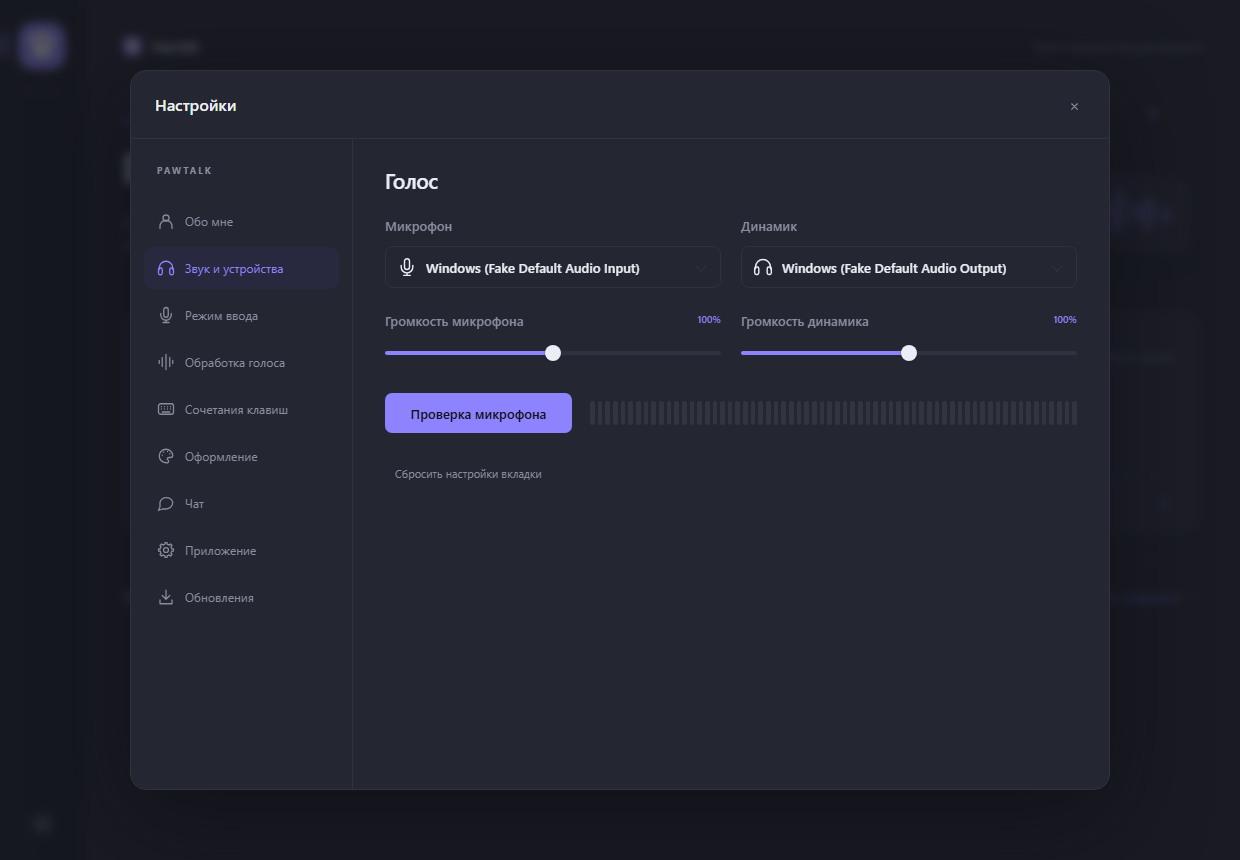
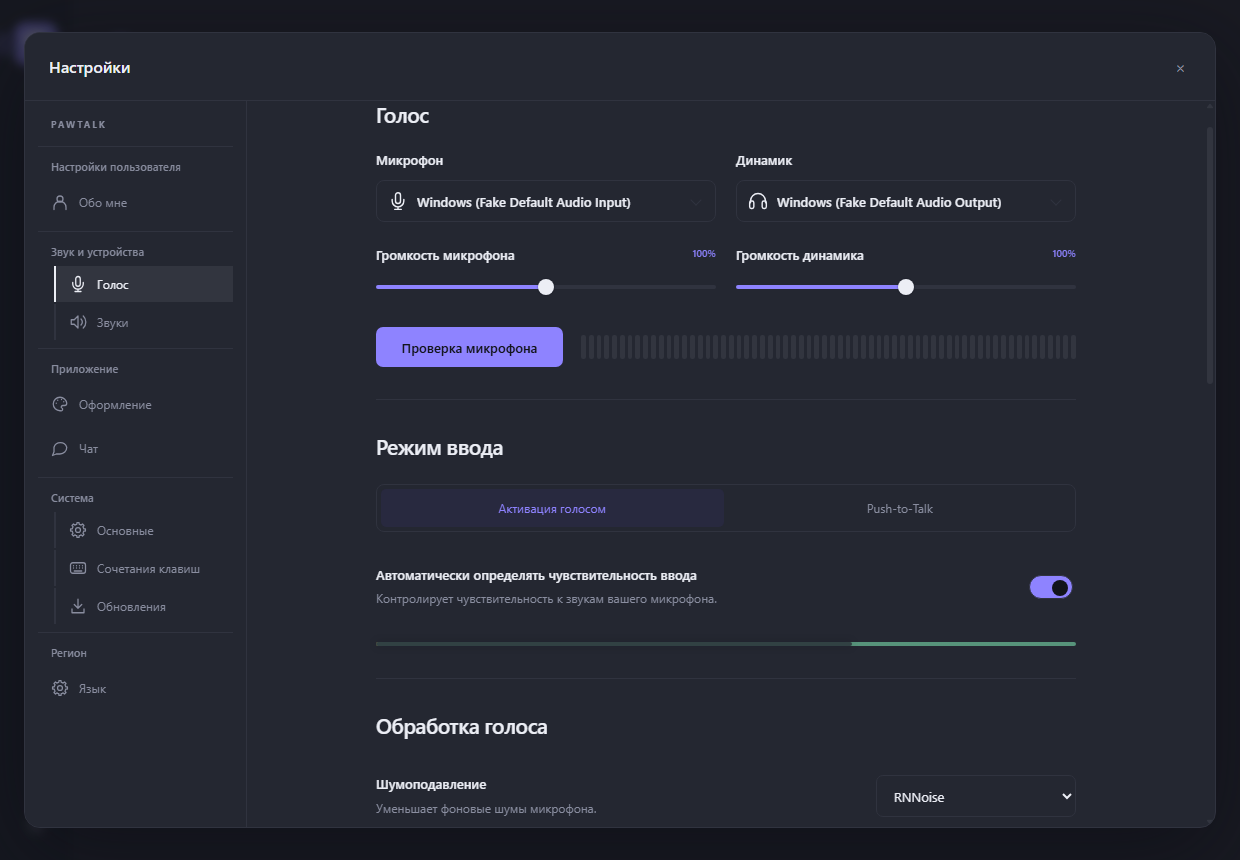
Release PawTalk 0.7.0

diff --git a/website/ru/index.html b/website/ru/index.html
@@ -12,7 +12,7 @@
   <link rel="alternate" hreflang="x-default" href="https://ilyarusskikh.github.io/pawtalk/">
   <meta property="og:type" content="website">
   <meta property="og:title" content="PawTalk — ваша голосовая комната">
-  <meta property="og:description" content="Голосовой чат для Windows с открытым кодом. Без аккаунтов. На вашем ПК или Linux VPS. Предварительный выпуск PawTalk 0.6.0.">
+  <meta property="og:description" content="Голосовой чат для Windows с открытым кодом. Без аккаунтов. На вашем ПК или Linux VPS. Предварительный выпуск PawTalk 0.7.0.">
   <meta property="og:url" content="https://ilyarusskikh.github.io/pawtalk/ru/">
   <meta property="og:image" content="https://ilyarusskikh.github.io/pawtalk/assets/room-chat.png">
   <meta property="og:image:alt" content="Комната PawTalk с тремя участниками, кнопками звонка и зашифрованным текстовым чатом">
@@ -32,28 +32,29 @@
     <div class="eyebrow">Открытый код · Свой сервер · Windows</div>
     <h1>Ваши друзья.<br>Ваш сервер.<br><span>Ваша комната.</span></h1>
     <p class="lead">Голос и текстовый чат для совместных игр и небольших сообществ. Создайте комнату на своём ПК или оставьте её работать на Linux VPS. Для входа — приглашение и никнейм. Без аккаунтов.</p>
-    <div class="actions"><a class="button" href="https://github.com/IlyaRusskikh/pawtalk/releases/download/v0.6.0/PawTalk.Setup.0.6.0.exe">Скачать PawTalk для Windows x64 ↓</a><a class="button secondary" href="https://github.com/IlyaRusskikh/pawtalk/blob/main/docs/SERVER.md">Установить Linux-сервер ↗</a></div>
-    <p class="fine">PawTalk 0.6.0 — предварительный выпуск · Windows 10/11 x64 · Интерфейс Русский / English</p>
+    <div class="actions"><a class="button" href="https://github.com/IlyaRusskikh/pawtalk/releases/download/v0.7.0/PawTalk.Setup.0.7.0.exe">Скачать PawTalk для Windows x64 ↓</a><a class="button secondary" href="https://github.com/IlyaRusskikh/pawtalk/blob/main/docs/SERVER.md">Установить Linux-сервер ↗</a></div>
+    <p class="fine">PawTalk 0.7.0 — предварительный выпуск · Windows 10/11 x64 · Интерфейс Русский / English</p>
     <p class="fine">Нужна новая установка; профили и приглашения Voicecord не переносятся.</p>
-    <p class="fine">Установщик без цифровой подписи · Проверяемое автообновление · <a href="https://github.com/IlyaRusskikh/pawtalk/releases/tag/v0.6.0">Описание выпуска, SHA-256 и исходники</a></p>
+    <p class="fine">Установщик без цифровой подписи · Проверяемое автообновление · <a href="https://github.com/IlyaRusskikh/pawtalk/releases/tag/v0.7.0">Описание выпуска, SHA-256 и исходники</a></p>
   </section>
-  <figure class="hero-shot"><a href="../assets/room-chat.png"><img src="../assets/room-chat.png" width="1240" height="860" fetchpriority="high" alt="Комната PawTalk с тремя участниками, кнопками звонка и зашифрованным текстовым чатом"></a><figcaption>PawTalk 0.6.0 с тестовыми участниками и перепиской.</figcaption></figure>
+  <figure class="hero-shot"><a href="../assets/room-chat.png"><img src="../assets/room-chat.png" width="1240" height="860" fetchpriority="high" alt="Комната PawTalk с тремя участниками, кнопками звонка и зашифрованным текстовым чатом"></a><figcaption>PawTalk 0.7.0 с тестовыми участниками и перепиской.</figcaption></figure>
   <section class="section" aria-labelledby="features"><h2 id="features">Небольшая комната. Нужные настройки.</h2>
     <div class="features"><article><h3>Размещайте у себя</h3><p>Временная комната на Windows-ПК или постоянный Docker-сервер на Linux amd64/arm64. Гостям достаточно установить клиент.</p></article><article><h3>Убирайте лишний шум</h3><p>Локальное шумоподавление RNNoise, эхоподавление и автоусиление. Выбирайте устройства, чувствительность и громкость.</p></article><article><h3>Говорите как удобно</h3><p>Активация голосом или push-to-talk, глобальные сочетания, mute/deafen и громкость каждого участника. Приложение работает в трее.</p></article></div>
   </section>
-  <section class="section split"><div><div class="eyebrow">В комнате</div><h2>Говорите и пишите в одной комнате.</h2><p>Меняйте высоту голосовой панели и чата. Отправляйте картинки до 2 МиБ, отвечайте на сообщения и копируйте текст. История подгружается при прокрутке; размер окна задаётся в настройках. На VPS объём хранения задаётся через PAWTALK_CHAT_MAX_MB: 128 МиБ по умолчанию, 0 — без лимита. Ограничения в семь дней нет.</p><p>При наборе текста анимируются лапки. Необязательные звуки CC0 отмечают вход и выход из комнаты и сообщают о непросмотренных сообщениях, если приложение неактивно или чат прокручен вверх.</p><p>Выберите аватар и оцените круглый кадр перед сохранением.</p></div><figure><a href="../assets/avatar-crop.png"><img src="../assets/avatar-crop.png" width="1240" height="860" loading="lazy" alt="Круглый предпросмотр с масштабированием и сдвигом изображения."></a><figcaption>Круглый предпросмотр с масштабированием и сдвигом изображения.</figcaption></figure></section>
+  <section class="section split"><div><div class="eyebrow">В комнате</div><h2>Говорите и пишите в одной комнате.</h2><p>Меняйте высоту голосовой панели и чата. Отправляйте картинки до 2 МиБ, отвечайте на сообщения и копируйте текст. Форматируйте выделение, используйте Markdown, редактируйте и удаляйте свои сообщения на обновлённых серверах. Ссылки открываются в браузере. История подгружается при прокрутке; размер окна задаётся в настройках. На VPS объём хранения задаётся через PAWTALK_CHAT_MAX_MB: 128 МиБ по умолчанию, 0 — без лимита. Ограничения в семь дней нет.</p><p>При наборе текста анимируются лапки. Необязательные звуки CC0 отмечают вход и выход из комнаты и сообщают о непросмотренных сообщениях, если приложение неактивно или чат прокручен вверх.</p><p>Выберите аватар и оцените круглый кадр перед сохранением.</p></div><figure><a href="../assets/avatar-crop.png"><img src="../assets/avatar-crop.png" width="1240" height="860" loading="lazy" alt="Круглый предпросмотр с масштабированием и сдвигом изображения."></a><figcaption>Круглый предпросмотр с масштабированием и сдвигом изображения.</figcaption></figure></section>
   <section class="section" id="start"><h2>От скачивания до первого разговора.</h2>
     <ol class="steps"><li><strong>Установите и проверьте звук</strong><p>Установите клиент на каждый Windows-ПК и выберите Русский или English. В настройках задайте никнейм, выберите устройства и проверьте микрофон. Инструменты разработчика не нужны.</p></li><li><strong>Создайте комнату</strong><p>Нажмите «Создать комнату», введите название и пароль от 8 символов. Комната доступна, пока приложение хоста запущено.</p></li><li><strong>Пригласите друга</strong><p>Передайте полное приглашение лично. Друг вставляет его в «Присоединиться к комнате». В одной локальной сети используйте LAN-приглашение.</p></li></ol>
     <p>Для связи через интернет нужны доступные порты хоста. Автопроброс может не сработать при CGNAT. Альтернатива — Linux VPS с публичным IP. <a href="https://github.com/IlyaRusskikh/pawtalk/blob/main/README.ru.md">Полная инструкция →</a></p>
   </section>
-  <section class="section split"><div><div class="eyebrow">Перед разговором</div><h2>Сначала услышьте себя.<br>Потом — друзей.</h2><p>Выберите микрофон и динамики, попробуйте шумоподавление и прослушайте микрофон перед подключением.</p><p>Порты хоста по умолчанию: TCP <strong>18443</strong>, TCP <strong>18444</strong>, UDP <strong>18445</strong>. В руководстве сервера описаны проверки firewall и доступности.</p></div><figure><a href="../assets/audio-settings.png"><img src="../assets/audio-settings.png" width="1240" height="860" loading="lazy" alt="Настройки PawTalk: микрофон, динамик, проверка микрофона и шумоподавление"></a><figcaption>Настоящие настройки звука; при съёмке использован синтетический микрофон.</figcaption></figure></section>
-  <section class="section split"><div><div class="eyebrow">Оформление и обновления</div><h2>Ваш язык.<br>Проверяемые обновления.</h2><p>Выберите Русский или English в разделе «Приложение». В настройках с боковой навигацией доступны светлая тема, цветовая палитра и скругления. Подсказки соединения и сообщения используют выбранный язык.</p><p>Автопроверку обновлений можно отключить или запустить вручную; текущая версия показана рядом. Обновление можно отложить и открыть снова по иконке. Файл проверяется перед установкой, а отдельное окно показывает её ход.</p><p>Уже используете 0.1.0? Один раз установите 0.2.0 вручную, чтобы получать следующие обновления из приложения.</p></div><figure><a href="../assets/language-settings.png"><img src="../assets/language-settings.png" width="1240" height="860" loading="lazy" alt="Настройки PawTalk: выбор языка приложения и никнейм"></a><figcaption>Настройки приложения в PawTalk 0.6.0.</figcaption></figure></section>
+  <section class="section split"><div><div class="eyebrow">Перед разговором</div><h2>Сначала услышьте себя.<br>Потом — друзей.</h2><p>В «Звук и устройства → Голос» выберите микрофон и динамики, попробуйте шумоподавление и прослушайте микрофон. Расширенная обработка и приглушение приложений доступны в раскрывающемся разделе.</p><p>Порты хоста по умолчанию: TCP <strong>18443</strong>, TCP <strong>18444</strong>, UDP <strong>18445</strong>. В руководстве сервера описаны проверки firewall и доступности.</p></div><figure><a href="../assets/audio-settings.png"><img src="../assets/audio-settings.png" width="1240" height="860" loading="lazy" alt="Настройки PawTalk: микрофон, динамик, проверка микрофона и шумоподавление"></a><figcaption>Настоящие настройки звука; при съёмке использован синтетический микрофон.</figcaption></figure></section>
+  <section class="section split"><div><div class="eyebrow">Оформление и обновления</div><h2>Ваш язык.<br>Проверяемые обновления.</h2><p>Выберите Русский или English в разделе «Настройки → Язык». В настройках с боковой навигацией доступны светлая тема, цветовая палитра и скругления. Подсказки соединения и сообщения используют выбранный язык.</p><p>В «Система → Обновления» автопроверку можно отключить или запустить вручную; текущая версия показана рядом. Обновление можно отложить и открыть снова по иконке. Файл проверяется перед установкой, а отдельное окно показывает её ход.</p><p>Уже используете 0.1.0? Один раз установите 0.2.0 вручную, чтобы получать следующие обновления из приложения.</p></div><figure><a href="../assets/language-settings.png"><img src="../assets/language-settings.png" width="1240" height="860" loading="lazy" alt="Настройки PawTalk: отдельная страница выбора языка приложения"></a><figcaption>Настройки приложения в PawTalk 0.7.0.</figcaption></figure></section>
   <section class="section"><h2>Что учитывать в предварительной версии.</h2><div class="limits"><p><strong>Это ранний выпуск.</strong> Реальные микрофоны, чистая установка Windows, игры/PTT, разные внешние сети и полная нагрузка ещё требуют аппаратной приёмки.</p><p>Клиент работает только на Windows. Linux — серверная платформа. Видео, демонстрация экрана, веб- и мобильные клиенты пока недоступны.</p><p>E2EE включается по желанию и остаётся экспериментальным. Одно шифрование транспорта не исключает доступ медиасервера к звуку. Приглашение может содержать пароль и ключ E2EE — передавайте его лично. <a href="https://github.com/IlyaRusskikh/pawtalk/blob/main/docs/E2EE.md">Модель защиты</a>.</p></div></section>
+  <section class="section split"><div><h2>Мяуканье и мурчание. На вашей громкости.</h2><p>В «Звук и устройства → Звуки» доступны общая громкость уведомлений, прослушивание мяуканья и мурчания и отключение звуков. Голос и Звуки находятся на общей странице; Система объединяет автозапуск, горячие клавиши и обновления.</p></div><figure><a href="../assets/sound-settings.png"><img src="../assets/sound-settings.png" width="1240" height="860" loading="lazy" alt="Громкость уведомлений и прослушивание звуков в PawTalk 0.7.0"></a><figcaption>Громкость уведомлений и прослушивание звуков в PawTalk 0.7.0.</figcaption></figure></section>
   <section class="section" id="faq"><h2>Ответы перед первым запуском.</h2>
     <details><summary>Это альтернатива Discord или TeamSpeak?</summary><p>Для небольших голосовых комнат на своём сервере — это целевой сценарий. PawTalk сосредоточен на разговорах без регистрации и не заменяет все возможности этих платформ для сообществ.</p></details>
     <details><summary>Голос передаётся напрямую, по P2P?</summary><p>Голос идёт по WebRTC через медиасервер LiveKit на ПК хоста или вашем VPS. Гостям нужен Windows-клиент, разворачивать свой сервер не требуется.</p></details>
     <details><summary>Почему друг не может подключиться?</summary><p>Убедитесь, что комната работает, а приглашение актуально. В одной сети используйте LAN-приглашение. Через интернет проверьте входящие порты, firewall, проброс на роутере и VPN. При CGNAT может понадобиться доступный извне VPS. См. <a href="https://github.com/IlyaRusskikh/pawtalk/blob/main/docs/SERVER.md">сетевую диагностику</a>.</p></details>
-    <details><summary>Как обновиться и сообщить о проблеме?</summary><p>PawTalk проверяет новые выпуски при запуске и проверяет установщик до предложения. Пользователям Voicecord 0.5.2 нужно отдельно установить PawTalk 0.6.0; профили, настройки сервера и приглашения не переносятся. Ошибки и вопросы настройки отправляйте через <a href="https://github.com/IlyaRusskikh/pawtalk/issues/new/choose">GitHub Issues</a>. Укажите версию и шаги воспроизведения; удалите пароли, приглашения и личную сетевую информацию.</p></details>
+    <details><summary>Как обновиться и сообщить о проблеме?</summary><p>PawTalk проверяет новые выпуски при запуске и проверяет установщик до предложения. Пользователям Voicecord 0.5.2 нужно отдельно установить PawTalk 0.7.0; профили, настройки сервера и приглашения не переносятся. Ошибки и вопросы настройки отправляйте через <a href="https://github.com/IlyaRusskikh/pawtalk/issues/new/choose">GitHub Issues</a>. Укажите версию и шаги воспроизведения; удалите пароли, приглашения и личную сетевую информацию.</p></details>
     <details><summary>Можно ли менять код и размещать сервер?</summary><p>Собственный код проекта распространяется по GNU AGPL-3.0-only. Условия использования указаны в <a href="https://github.com/IlyaRusskikh/pawtalk/blob/main/LICENSE">лицензии</a> и <a href="https://github.com/IlyaRusskikh/pawtalk/blob/main/THIRD_PARTY_NOTICES.md">уведомлениях сторонних компонентов</a>.</p></details>
   </section>
 </main>

diff --git a/website/index.html b/website/index.html
@@ -12,7 +12,7 @@
   <link rel="alternate" hreflang="x-default" href="https://ilyarusskikh.github.io/pawtalk/">
   <meta property="og:type" content="website">
   <meta property="og:title" content="PawTalk — a voice room of your own">
-  <meta property="og:description" content="Open-source voice chat for Windows. No accounts. Host on your PC or a Linux VPS. PawTalk 0.6.0 public preview.">
+  <meta property="og:description" content="Open-source voice chat for Windows. No accounts. Host on your PC or a Linux VPS. PawTalk 0.7.0 public preview.">
   <meta property="og:url" content="https://ilyarusskikh.github.io/pawtalk/">
   <meta property="og:image" content="https://ilyarusskikh.github.io/pawtalk/assets/room-chat-en.png">
   <meta property="og:image:alt" content="PawTalk room with three participants, call controls and encrypted text chat">
@@ -32,28 +32,29 @@
     <div class="eyebrow">Open source · Self-hosted · Windows</div>
     <h1>Your friends.<br>Your server.<br><span>Your voice room.</span></h1>
     <p class="lead">Voice and text chat for a game night or a small community. Create a room on your PC or keep it running on a Linux VPS. Join with an invitation and a nickname. No accounts.</p>
-    <div class="actions"><a class="button" href="https://github.com/IlyaRusskikh/pawtalk/releases/download/v0.6.0/PawTalk.Setup.0.6.0.exe">Download PawTalk for Windows x64 ↓</a><a class="button secondary" href="https://github.com/IlyaRusskikh/pawtalk/blob/main/docs/SERVER.md">Host a Linux server ↗</a></div>
-    <p class="fine">PawTalk 0.6.0 public preview · Windows 10/11 x64 · English / Русский interface</p>
+    <div class="actions"><a class="button" href="https://github.com/IlyaRusskikh/pawtalk/releases/download/v0.7.0/PawTalk.Setup.0.7.0.exe">Download PawTalk for Windows x64 ↓</a><a class="button secondary" href="https://github.com/IlyaRusskikh/pawtalk/blob/main/docs/SERVER.md">Host a Linux server ↗</a></div>
+    <p class="fine">PawTalk 0.7.0 public preview · Windows 10/11 x64 · English / Русский interface</p>
     <p class="fine">Fresh installation required; Voicecord profiles and invitations are not migrated.</p>
-    <p class="fine">Unsigned installer · Verified automatic updates · <a href="https://github.com/IlyaRusskikh/pawtalk/releases/tag/v0.6.0">Release notes, checksums and source</a></p>
+    <p class="fine">Unsigned installer · Verified automatic updates · <a href="https://github.com/IlyaRusskikh/pawtalk/releases/tag/v0.7.0">Release notes, checksums and source</a></p>
   </section>
-  <figure class="hero-shot"><a href="assets/room-chat-en.png"><img src="assets/room-chat-en.png" width="1240" height="860" fetchpriority="high" alt="PawTalk room with three participants, call controls and encrypted text chat"></a><figcaption>PawTalk 0.6.0 with demo participants and messages.</figcaption></figure>
+  <figure class="hero-shot"><a href="assets/room-chat-en.png"><img src="assets/room-chat-en.png" width="1240" height="860" fetchpriority="high" alt="PawTalk room with three participants, call controls and encrypted text chat"></a><figcaption>PawTalk 0.7.0 with demo participants and messages.</figcaption></figure>
   <section class="section" aria-labelledby="features"><h2 id="features">A small room. The controls you need.</h2>
     <div class="features"><article><h3>Host it yourself</h3><p>Temporary rooms on a Windows PC, or a persistent Docker server on Linux amd64/arm64. Your guests just install the client.</p></article><article><h3>Keep the noise down</h3><p>Local RNNoise noise suppression, echo cancellation and automatic gain control. Adjust devices, sensitivity and volume.</p></article><article><h3>Speak your way</h3><p>Voice activation or push-to-talk, global shortcuts, mute/deafen and per-person volume. Keep the app in the tray.</p></article></div>
   </section>
-  <section class="section split"><div><div class="eyebrow">In the room</div><h2>Keep talking. Share a message.</h2><p>Resize the voice and chat panels. Share images up to 2 MiB, reply to messages and copy text. History loads as you scroll, with a configurable client window. VPS storage uses PAWTALK_CHAT_MAX_MB: 128 MiB by default, 0 for unlimited. There is no seven-day expiry.</p><p>Typing status uses animated paws. Optional CC0 cat sounds mark room arrivals and departures, and alert you to unseen messages when the app is inactive or chat is scrolled up.</p><p>Choose a profile picture and preview the circular crop before saving.</p></div><figure><a href="assets/avatar-crop-en.png"><img src="assets/avatar-crop-en.png" width="1240" height="860" loading="lazy" alt="Circular avatar preview with zoom and repositioning."></a><figcaption>Circular avatar preview with zoom and repositioning.</figcaption></figure></section>
+  <section class="section split"><div><div class="eyebrow">In the room</div><h2>Keep talking. Share a message.</h2><p>Resize the voice and chat panels. Share images up to 2 MiB, reply to messages and copy text. Format selected text, use Markdown, and edit or delete your own messages on updated servers. Links open in your browser. History loads as you scroll, with a configurable client window. VPS storage uses PAWTALK_CHAT_MAX_MB: 128 MiB by default, 0 for unlimited. There is no seven-day expiry.</p><p>Typing status uses animated paws. Optional CC0 cat sounds mark room arrivals and departures, and alert you to unseen messages when the app is inactive or chat is scrolled up.</p><p>Choose a profile picture and preview the circular crop before saving.</p></div><figure><a href="assets/avatar-crop-en.png"><img src="assets/avatar-crop-en.png" width="1240" height="860" loading="lazy" alt="Circular avatar preview with zoom and repositioning."></a><figcaption>Circular avatar preview with zoom and repositioning.</figcaption></figure></section>
   <section class="section" id="start"><h2>From download to first conversation.</h2>
     <ol class="steps"><li><strong>Install &amp; check your mic</strong><p>Install the Windows client on each PC and choose English or Russian. In Settings, choose a nickname, select audio devices and test your microphone. No developer tools are needed.</p></li><li><strong>Create a room</strong><p>Choose Create room (Создать комнату), enter a name and a password of at least 8 characters. The room stays up while the host app runs.</p></li><li><strong>Invite a friend</strong><p>Share the full invitation privately. Your friend pastes it into Join room (Присоединиться к комнате). On the same network, use the LAN invitation.</p></li></ol>
     <p>Across the internet, the host needs reachable ports. Automatic port mapping may not work behind CGNAT. A Linux VPS with a public IP is an alternative. <a href="https://github.com/IlyaRusskikh/pawtalk/blob/main/README.md">Read the full setup guide →</a></p>
   </section>
-  <section class="section split"><div><div class="eyebrow">Before the call</div><h2>Hear yourself.<br>Then join your friends.</h2><p>Choose your microphone and speakers, try noise suppression and listen to a microphone test before connecting.</p><p>Default hosting ports: TCP <strong>18443</strong>, TCP <strong>18444</strong>, UDP <strong>18445</strong>. The server setup guide covers firewall and connectivity checks.</p></div><figure><a href="assets/audio-settings-en.png"><img src="assets/audio-settings-en.png" width="1240" height="860" loading="lazy" alt="PawTalk settings showing microphone, speaker, monitoring and noise suppression controls"></a><figcaption>Real audio settings; capture uses a synthetic microphone.</figcaption></figure></section>
-  <section class="section split"><div><div class="eyebrow">Language and updates</div><h2>Your language.<br>Verified updates.</h2><p>Choose English or Russian under Application. Settings now have sidebar navigation, a light preset, editable colors and corner sizes. Connection tooltips and status messages follow your choice.</p><p>Turn automatic update checks on or off, check manually and see the current version in Settings. Update now or defer it; an icon lets you reopen the offer. Downloads are verified before installation, and a separate window shows installation progress.</p><p>Already on 0.1.0? Install 0.2.0 once manually to enable future update offers.</p></div><figure><a href="assets/language-settings-en.png"><img src="assets/language-settings-en.png" width="1240" height="860" loading="lazy" alt="PawTalk English settings with a persistent application language selector"></a><figcaption>Application settings in PawTalk 0.6.0.</figcaption></figure></section>
+  <section class="section split"><div><div class="eyebrow">Before the call</div><h2>Hear yourself.<br>Then join your friends.</h2><p>Under Audio and devices → Voice, choose your microphone and speakers, try noise suppression and listen to a microphone test. Sounds has a shared notification volume and meow/purr previews.</p><p>Default hosting ports: TCP <strong>18443</strong>, TCP <strong>18444</strong>, UDP <strong>18445</strong>. The server setup guide covers firewall and connectivity checks.</p></div><figure><a href="assets/audio-settings-en.png"><img src="assets/audio-settings-en.png" width="1240" height="860" loading="lazy" alt="PawTalk settings showing microphone, speaker, monitoring and noise suppression controls"></a><figcaption>Real audio settings; capture uses a synthetic microphone.</figcaption></figure></section>
+  <section class="section split"><div><div class="eyebrow">Language and updates</div><h2>Your language.<br>Verified updates.</h2><p>Choose English or Russian under Settings → Language. Settings now have sidebar navigation, a light preset, editable colors and corner sizes. Connection tooltips and status messages follow your choice.</p><p>Under System → Updates, turn automatic checks on or off, check manually and see the current version. Update now or defer it; an icon lets you reopen the offer. Downloads are verified before installation, and a separate window shows installation progress.</p><p>Already on 0.1.0? Install 0.2.0 once manually to enable future update offers.</p></div><figure><a href="assets/language-settings-en.png"><img src="assets/language-settings-en.png" width="1240" height="860" loading="lazy" alt="PawTalk English settings with a persistent application language selector"></a><figcaption>Application settings in PawTalk 0.7.0.</figcaption></figure></section>
   <section class="section"><h2>Try the preview with clear expectations.</h2><div class="limits"><p><strong>This is an early release.</strong> Real microphones, clean Windows installations, games/PTT, separate internet networks and full load still need hardware acceptance testing.</p><p>Windows desktop client only. Linux is a server platform. Video, screen sharing and web or mobile clients are unavailable.</p><p>E2EE is optional and experimental. Transport encryption alone does not prevent the media server from accessing audio. Invitations can contain the password and E2EE key: keep them private. <a href="https://github.com/IlyaRusskikh/pawtalk/blob/main/docs/E2EE.md">Read the security model</a>.</p></div></section>
+  <section class="section split"><div><h2>Meows and purrs. At your volume.</h2><p>Audio and devices → Sounds has a shared volume for room events and unseen messages, meow and purr previews, and a notification toggle. Voice and Sounds share one page; System groups startup, shortcuts and updates.</p></div><figure><a href="assets/sound-settings-en.png"><img src="assets/sound-settings-en.png" width="1240" height="860" loading="lazy" alt="Notification volume and sound previews in PawTalk 0.7.0"></a><figcaption>Notification volume and sound previews in PawTalk 0.7.0.</figcaption></figure></section>
   <section class="section" id="faq"><h2>A few things to know.</h2>
     <details><summary>Is this an alternative to Discord or TeamSpeak?</summary><p>For small, self-hosted voice rooms, that is the use case. PawTalk focuses on account-free conversations. It does not replace their broader community features.</p></details>
     <details><summary>Is voice peer-to-peer?</summary><p>Voice uses WebRTC through a LiveKit media server running on the host PC or your VPS. Guests need the Windows client, not their own server.</p></details>
     <details><summary>Why can my friend not connect?</summary><p>Check that the room is still running and the invitation is current. Use a LAN invitation on the same network. For internet access, check incoming ports, firewall, router forwarding and VPN. CGNAT may require a publicly reachable VPS. See <a href="https://github.com/IlyaRusskikh/pawtalk/blob/main/docs/SERVER.md">network troubleshooting (Russian)</a>.</p></details>
-    <details><summary>How do I update or report a problem?</summary><p>PawTalk checks for new releases at startup and verifies each installer before offering it. Voicecord 0.5.2 users must install PawTalk 0.6.0 separately; profiles, server settings and invitations are not migrated. Report bugs or ask setup questions in <a href="https://github.com/IlyaRusskikh/pawtalk/issues/new/choose">GitHub Issues</a>. Include the version and reproduction steps; remove passwords, invitations and private network information.</p></details>
+    <details><summary>How do I update or report a problem?</summary><p>PawTalk checks for new releases at startup and verifies each installer before offering it. Voicecord 0.5.2 users must install PawTalk 0.7.0 separately; profiles, server settings and invitations are not migrated. Report bugs or ask setup questions in <a href="https://github.com/IlyaRusskikh/pawtalk/issues/new/choose">GitHub Issues</a>. Include the version and reproduction steps; remove passwords, invitations and private network information.</p></details>
     <details><summary>Can I modify and host it?</summary><p>The original code is licensed under GNU AGPL-3.0-only. Read the <a href="https://github.com/IlyaRusskikh/pawtalk/blob/main/LICENSE">license</a> and <a href="https://github.com/IlyaRusskikh/pawtalk/blob/main/THIRD_PARTY_NOTICES.md">third-party notices</a> for the terms that apply.</p></details>
   </section>
 </main>

diff --git a/docs/GUIDE.ru.md b/docs/GUIDE.ru.md
@@ -227,7 +227,7 @@ npm run package
 
 После упаковки `node scripts/packaged-smoke.mjs` проверяет настоящий `release/win-unpacked/PawTalk.exe`, загрузку native-модуля, интерфейс и обязательный HTTPS. Для этой проверки используется отдельный временный профиль и локальный диагностический порт 19337; тестовый процесс завершается автоматически.
 
-Установщик появится в `release/`. Сборка требует готового `native/build/Release/pawtalk.node`; этот модуль упаковывается отдельно от ASAR. Node-API позволяет использовать один модуль в Node.js и Electron без привязки к V8 ABI. Установщик без цифровой подписи может отображать предупреждение Windows; подпись и автообновление не настроены.
+Установщик появится в `release/`. Сборка требует готового `native/build/Release/pawtalk.node`; этот модуль упаковывается отдельно от ASAR. Node-API позволяет использовать один модуль в Node.js и Electron без привязки к V8 ABI. Установщик без цифровой подписи может отображать предупреждение Windows; Authenticode-подпись не настроена; автообновление проверяет Ed25519-подпись манифеста и SHA-256 установщика.
 
 CI `.github/workflows/check.yml` проверяет Go, Docker-образ, Windows native build, клиент и установщик. Он не заменяет испытания с реальными устройствами.
 
@@ -245,3 +245,9 @@ CI `.github/workflows/check.yml` проверяет Go, Docker-образ, Windo
 - Не запускайте несколько экземпляров клиента с общими настройками. Обычный запуск ограничен одним экземпляром; испытания двух клиентов выполняются на двух компьютерах.
 
 Описание API: [docs/API.md](API.md). Аппаратная приёмка: [docs/ACCEPTANCE.md](ACCEPTANCE.md).
+
+## Чат и настройки в 0.7.0
+
+В меню своего сообщения доступны «Редактировать» и «Удалить сообщение», если сервер обновлён до 0.7.0. Enter сохраняет правку, Shift+Enter переносит строку, Esc отменяет. Перед удалением показано превью; Shift при выборе удаления пропускает подтверждение. Изменения синхронизируются у участников. Выделение текста в поле ввода открывает панель форматирования. Поддерживаются Markdown, спойлеры, код, цитаты и ссылки; веб-ссылки открываются в браузере.
+
+«Звук и устройства» объединяет «Голос» и «Звуки»; расширенная обработка и приглушение других приложений свёрнуты под голосом. В «Звуках» доступны общая громкость уведомлений и кнопки прослушивания. «Система» объединяет автозапуск, горячие клавиши и обновления. Язык — отдельная страница. Карта и границы сброса: [SETTINGS.md](SETTINGS.md).

diff --git a/README.md b/README.md
@@ -2,11 +2,11 @@
 
 [Русский](README.ru.md) · English
 
-PawTalk is the new name of Voicecord. The PawTalk 0.6.0 public preview is now available. Install it separately from Voicecord and create new `pawtalk://` invitations; profiles, server configuration and old invitations are not migrated. See [transition notes](docs/PAWTALK.md).
+PawTalk is the new name of Voicecord. The PawTalk 0.7.0 public preview is now available. Install it separately from Voicecord and create new `pawtalk://` invitations; profiles, server configuration and old invitations are not migrated. See [transition notes](docs/PAWTALK.md).
 
 PawTalk is an **alternative to Discord and TeamSpeak for voice chat** on Windows. Get friends together before a match, talk to your team while you play, or give your community a room it can come back to. Join with an invitation and a nickname. No account required.
 
-**[Download PawTalk 0.6.0 for Windows 10/11 (x64)](https://github.com/IlyaRusskikh/pawtalk/releases/download/v0.6.0/PawTalk.Setup.0.6.0.exe)** · [Get started](#get-started) · [Self-hosting guide (Russian)](docs/SERVER.md)
+**[Download PawTalk 0.7.0 for Windows 10/11 (x64)](https://github.com/IlyaRusskikh/pawtalk/releases/download/v0.7.0/PawTalk.Setup.0.7.0.exe)** · [Get started](#get-started) · [Self-hosting guide (Russian)](docs/SERVER.md)
 
 ![PawTalk room with three participants, call controls and encrypted text chat](website/assets/room-chat-en.png)
 
@@ -40,7 +40,7 @@ PawTalk takes inspiration from **Discord** for easy-to-join voice rooms and indi
 
 ## Get started
 
-1. **Install PawTalk.** [Download the installer](https://github.com/IlyaRusskikh/pawtalk/releases/download/v0.6.0/PawTalk.Setup.0.6.0.exe) on each Windows PC. Choose English or Russian.
+1. **Install PawTalk.** [Download the installer](https://github.com/IlyaRusskikh/pawtalk/releases/download/v0.7.0/PawTalk.Setup.0.7.0.exe) on each Windows PC. Choose English or Russian.
 2. **Pick a nickname.** Open **Settings → About me** and enter a nickname. You can test your microphone under **Voice**.
 3. **Get your friends together.** Select **Create a room**, give the room a name, and choose a password of at least 8 characters. Share the full invitation privately. Your friend opens **Join a room** and pastes the link.
 
@@ -134,7 +134,7 @@ Message menus include **Copy text**. The room rail hides its scrollbar and shows
 indexes. Oldest messages are evicted and disk pages reclaimed; 0.5.2
 has no seven-day or 500-message VPS retention cap. Embedded rooms keep 500 messages.
 
-**0.6.0 is a public pre-release.** It introduces the PawTalk identity, animated typing paws, and CC0 cat sounds for room events and unseen messages. A fresh installation is required. [Release notes and source](https://github.com/IlyaRusskikh/pawtalk/releases/tag/v0.6.0). [Changelog](CHANGELOG.md).
+**0.7.0 is a public pre-release.** It adds message editing/deletion, Markdown and selection formatting, browser links, reorganized settings and notification volume. Upgrade the server to enable message changes. Voicecord users still need a separate PawTalk installation. [Release notes and source](https://github.com/IlyaRusskikh/pawtalk/releases/tag/v0.7.0). [Changelog](CHANGELOG.md).
 
 Voicecord 0.5.2 was the previous public pre-release; its [release notes and source](https://github.com/IlyaRusskikh/pawtalk/releases/tag/v0.5.2) remain available.
 

diff --git a/CHANGELOG.md b/CHANGELOG.md
@@ -1,5 +1,12 @@
 # Changelog / История изменений
 
+## 0.7.0 — 2026-11-09 — Chat and settings / Чат и настройки
+
+- Edit and delete your own messages with signed-profile authorization and synchronized history; updated servers advertise support. E2EE edits keep the message key and encrypt new content with a fresh nonce. / Редактирование и удаление своих сообщений с проверкой подписанного профиля и синхронизацией истории; требуется обновлённый сервер. E2EE сохраняет ключ сообщения и использует новый nonce.
+- Add Discord-style Markdown, selection formatting, inline editing (Enter/Shift+Enter/Esc), deletion previews and Shift-delete without confirmation. Open HTTP(S) links in the default browser. / Markdown, форматирование выделения, редактирование в сообщении (Enter/Shift+Enter/Esc), превью удаления и удаление с Shift без подтверждения. HTTP(S)-ссылки открываются в браузере.
+- Group Voice/Sounds and System settings into continuous pages with anchor navigation, consistent spacing and one reset per page. Add shared notification volume and meow/purr previews; simplify audio-device labels. / Голос/Звуки и Система собраны в общие страницы с якорями, едиными отступами и одной кнопкой сброса. Добавлены общая громкость уведомлений, прослушивание мяуканья/мурчания и понятные имена аудиоустройств.
+- Show connection progress and refresh bilingual documentation and landing-page screenshots. Make Windows smoke animation checks independent of runner preferences. / Добавлены этапы подключения, обновлены документация и скриншоты лендинга на двух языках. Проверки анимации Windows не зависят от настроек runner.
+
 ## 0.6.0 — 2026-11-08 — PawTalk / Ребрендинг PawTalk
 
 - Add approved cat-recording notification sounds: CC0 variant B double meow for joining, CC0 variant A single meow for leaving, and five softly faded purr variations for unseen messages in the connected room. Honor sound/output/deafen settings, suppress own/history/reconnect notifications, and limit message sound frequency. / Подключены согласованные записи: двойное мяу CC0 B для входа, одиночное CC0 A для выхода и пять мурлыканий с плавными краями для новых сообщений вне просмотра в текущей комнате. Учитываются настройки звука, устройства, громкости и отключения звука; свои сообщения, история и восстановление после переподключения не озвучиваются, частота сигналов ограничена.

diff --git a/docs/VERIFICATION.md b/docs/VERIFICATION.md
@@ -1,5 +1,15 @@
 # Проверки
 
+## PawTalk 0.7.0 — 9 ноября 2026
+
+- Windows: clean dependency install, LLVM native build/smoke, production renderer, NSIS installer and packaged executable smoke passed. The packaged smoke waits for the preload bridge before invoking IPC.
+- All 113 JavaScript tests and six Python updater tests passed. Go race tests and go vet passed with Go 1.27.3 and the local LLVM C compiler.
+- Built-renderer navigation/geometry/motion, UI flow, update UI, native clipboard IPC, two-client realtime, paged chat, main-process image/mutation flows, inline formatting/deletion, notification playback and external-link checks passed.
+- Fourteen RU/EN screenshots were captured from isolated real Electron main/preload/renderer sessions with demo participants and synthetic microphones, including the new Sounds section. Reviewed all images; no live invitations or personal data are shown. Website links, metadata and image bounds passed the site guard.
+- Both Docker images built successfully; Compose configurations and the read-only non-root server lifecycle/TLS/auth/persistence smoke passed locally.
+- Tests use synthetic microphones/transports where stated. Real microphones, game/PTT behavior, separate internet networks, UAC and hardware load remain outside this local verification. Native Linux amd64/arm64 and final signed release artifacts are verified by the tag workflow.
+
+
 ## PawTalk 0.2.0 — 5 ноября 2026
 
 - Production build, Windows NSIS packaging, 72 JS tests, Go tests/vet, native smoke,

diff --git a/website/README.md b/website/README.md
@@ -46,7 +46,7 @@ Do not advertise unreleased behavior as available in the installer.
 ## Screenshots
 
 `assets/pawtalk.svg` is copied from the project's existing `assets/pawtalk.svg`.
-PNG screenshots show the PawTalk 0.6.0 desktop interface in both languages.
+PNG screenshots show the PawTalk 0.7.0 desktop interface in both languages.
 The capture uses an isolated profile, synthetic microphones and a temporary E2EE
 room populated with demo participants and messages. The invitation dialog is
 closed before capture. Audio settings show fake Chromium audio devices.
@@ -58,7 +58,7 @@ After building, regenerate on Windows from the repository root:
 ```
 
 The script captures home, room creation, language and audio settings, circular
-avatar cropping and the room chat in Russian and English. It requires the built
+avatar cropping, notification volume/sound previews and the room chat in Russian and English. It requires the built
 native module and bundled server. It uses a new temporary profile and
 disables mute/deafen shortcuts in that profile to avoid conflicts with another
 running client. It does not change the user's profile. Inspect every screenshot

diff --git a/docs/SETTINGS.md b/docs/SETTINGS.md
@@ -1,6 +1,6 @@
 # Settings organization
 
-The November 2026 settings audit uses the supplied Discord desktop screenshots as the layout reference. All existing PawTalk settings are retained; stored keys and defaults are unchanged.
+The November 2026 settings audit uses the supplied Discord desktop screenshots as the layout reference. Existing PawTalk settings are retained. Version 0.7.0 adds notificationVolume (default 1); existing stored preferences remain compatible.
 
 | Location | Existing controls | Reference behavior |
 | --- | --- | --- |
